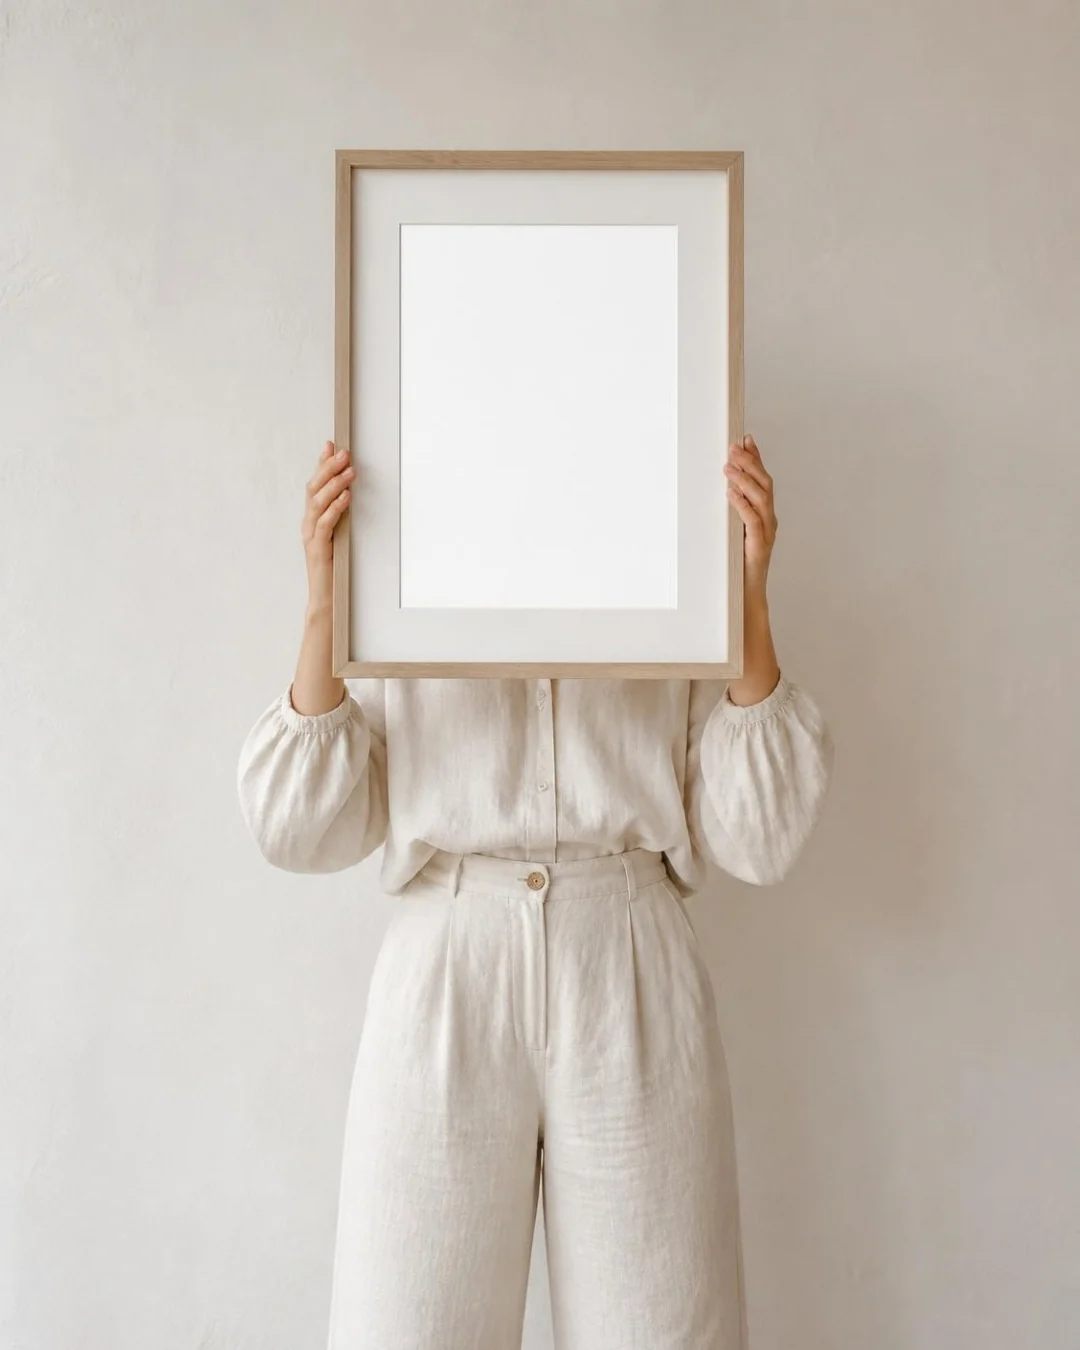
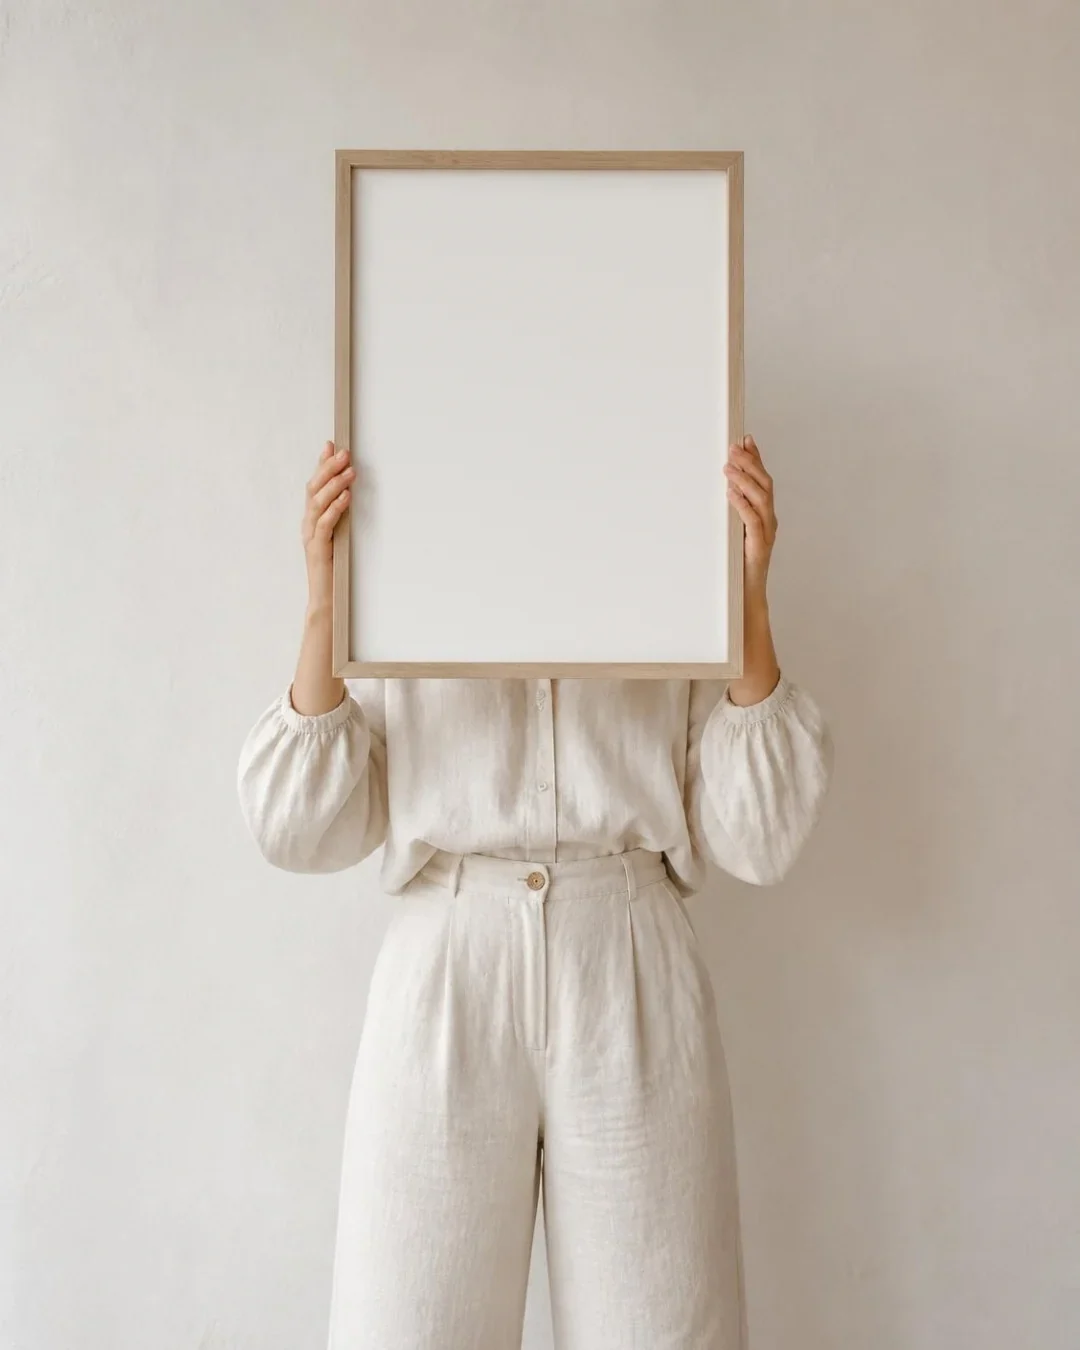
Paintings page: even mats, zoom, lighter images
- Each room photo's frame opening is measured from the photo; the old mat
  window is cleaned off and the painting sits centred with an even margin
  and a fine bevel, so no more wide white band above the art
- Three sizes per painting: small for the wall, medium for the viewer and
  rooms, the scan for zoom; rooms load on hover only; the next painting is
  fetched while one is open (first view about 1 MB instead of 4)
- Viewer: fixed stage, whole room shown, zoom by click or button with the
  full scan, square stage on phones
- Two columns on phones; Blue Poppies (a watermarked copy of White Dove)
  and the watermarked Little Tree are off the page until clean scans come

Claude-Session: https://claude.ai/code/session_011WuUMkvb8t9MEEabS5wD9n

Changed region(s): [[0.3667, 0.1556, 0.6417, 0.4667]]

diff --git a/drafts/collage/site/paintings.html b/drafts/collage/site/paintings.html
@@ -180,14 +180,19 @@ footer nav a{display:inline-block;padding:8px 2px}
 .pp .pr{font:700 var(--fs-body)/1 var(--f);white-space:nowrap;padding-top:4px}
 .pp:focus-visible{outline:3px solid var(--indigo);outline-offset:6px}
 @media(max-width:980px){.wall{columns:2}}
-@media(max-width:520px){.wall{columns:1}}
+@media(max-width:520px){.wall{column-gap:16px}.pp{margin-bottom:28px}.pp .cap h2{font-size:var(--fs-sm)}.pp .cap .where,.pp .cap .pr{font-size:var(--fs-caption)}}
 
 /* the painting up close: a paper sheet laid over the page */
 dialog.view{border:0;padding:0;background:none;width:min(1100px,calc(100% - 28px));max-height:calc(100svh - 28px);overflow:visible;color:var(--ink)}
 dialog.view::backdrop{background:rgba(var(--ink-rgb),.55)}
 .view .sheetv{display:grid;grid-template-columns:minmax(0,1.35fr) minmax(0,1fr);gap:clamp(24px,3vw,44px);align-items:center;padding:clamp(24px,3vw,40px);--c:var(--paper);max-height:calc(100svh - 28px);overflow:auto}
-.view .big{display:grid;place-items:center;background:var(--c-efe9dd);padding:clamp(12px,1.6vw,20px);min-height:0}
-.view .big img{max-width:100%;max-height:calc(100svh - 140px);width:auto;height:auto;filter:drop-shadow(0 6px 10px rgba(var(--ink-rgb),.2))}
+.view .big{display:grid;place-items:center;background:var(--c-efe9dd);padding:clamp(16px,2vw,28px);height:min(70svh,620px);container-type:size}
+.view .big>img{max-width:100%;max-height:100%;width:auto;height:auto;background:var(--paper-white);padding:3%;box-shadow:0 10px 22px -10px rgba(var(--ink-rgb),.45);cursor:zoom-in;transition:transform .35s cubic-bezier(.22,1,.36,1)}
+.view .big.zoom>img{transform:scale(2.6);cursor:zoom-out;box-shadow:none}
+.view .big[data-mode=wall]>img{visibility:hidden}
+.zbtn{position:absolute;inset-inline-end:12px;bottom:12px;z-index:3;width:44px;height:44px;border-radius:50%;border:0;background:var(--paper-white);color:var(--ink);display:grid;place-items:center;cursor:pointer;box-shadow:0 2px 8px rgba(var(--ink-rgb),.25)}
+.zbtn[aria-pressed=true]{background:var(--olive);color:var(--paper-white)}
+.zbtn[hidden]{display:none}
 .view h2{margin:0 0 8px;font:800 var(--fs-title)/1.05 var(--f);letter-spacing:-.02em}
 .ar-on .view h2{font:700 var(--fs-h3)/1.3 var(--fa);letter-spacing:0}
 .view .where{color:var(--soft);margin:0 0 24px;font-size:var(--fs-body)}
@@ -197,7 +202,7 @@ dialog.view::backdrop{background:rgba(var(--ink-rgb),.55)}
 .view .nav{display:flex;gap:8px;margin-top:24px}
 .view .x{position:absolute;top:-14px;inset-inline-end:-10px;z-index:3;width:48px;height:48px;border:0;cursor:pointer;--c:var(--ink);color:var(--paper);display:grid;place-items:center;filter:drop-shadow(0 4px 5px rgba(var(--rgb-20-18-14),.3))}
 .ar-on .view .nav svg{transform:scaleX(-1)}
-@media(max-width:820px){.view .sheetv{grid-template-columns:minmax(0,1fr)}.view .big img{max-height:52svh}}
+@media(max-width:820px){.view .sheetv{grid-template-columns:minmax(0,1fr)}.view .big{height:auto;aspect-ratio:1;max-height:56svh}}
 
 
 /* hover a painting: it is shown in a room, or held up by someone */
@@ -206,13 +211,16 @@ dialog.view::backdrop{background:rgba(var(--ink-rgb),.55)}
 .mk .scene{position:absolute;left:50%;top:50%;translate:-50% -50%;width:max(100cqw,calc(100cqh * var(--ar)));aspect-ratio:var(--ar)}
 .mk .scene img{position:absolute;max-width:none;max-height:none;filter:none;box-shadow:none;padding:0}
 .mk .room{inset:0;width:100%;height:100%}
-.mk .scene .art{object-fit:fill;mix-blend-mode:multiply;box-shadow:inset 0 0 0 1px rgba(var(--ink-rgb),.12),0 0 0 .6px rgba(var(--ink-rgb),.22)}
+.mk .scene .art{object-fit:fill;mix-blend-mode:multiply;box-shadow:0 0 0 1px rgba(var(--ink-rgb),.16),0 0 0 3px rgba(var(--rgb-255-255-255),.55),0 0 0 4px rgba(var(--ink-rgb),.08),0 1px 3px 3px rgba(var(--ink-rgb),.10)}
 @media(hover:hover){.pp:hover .mk{opacity:1}}
 .view .vtabs{display:flex;gap:16px;margin:0 0 16px}
 .view .vtabs button{border:0;background:none;padding:8px 0;font:700 var(--fs-sm)/1 var(--f);color:var(--soft);cursor:pointer;border-bottom:2px solid transparent}
 .ar-on .view .vtabs button{font-family:var(--fa)}
 .view .vtabs button[aria-pressed=true]{color:var(--ink);border-bottom-color:currentColor}
 .view .big{position:relative;overflow:hidden}
+.view .big .mk{transition:opacity .3s ease}
+.view .big[data-mode=wall] .mk{opacity:1;pointer-events:auto}
+.view .big .mk .scene{width:min(100cqw,calc(100cqh * var(--ar)))}
 .view .big .mk .scene img{max-width:none;max-height:none;filter:none}
 .view .big .mk .scene .room{width:100%;height:100%}
 .tbtn{display:inline-flex;align-items:center;gap:8px;min-height:44px;padding:0 16px;border:0;cursor:pointer;--c:var(--cream);color:var(--ink);font:700 var(--fs-sm)/1 var(--f);filter:drop-shadow(0 4px 4px rgba(var(--rgb-20-18-14),.18))}
@@ -267,7 +275,7 @@ a:focus-visible,button:focus-visible,input:focus-visible,textarea:focus-visible,
   <div class="wrap">
     <div>
       <h1 id="ph-h" data-ar="اللوحات">The paintings</h1>
-      <p class="lead" data-ar="عشرون لوحة مائية رسمتها فرح الحلو في غزة.">Twenty watercolours Farah Al-Helou painted in Gaza.</p>
+      <p class="lead" data-ar="لوحات مائية رسمتها فرح الحلو في غزة.">Watercolours Farah Al-Helou painted in Gaza.</p>
     </div>
     <p class="note paper" data-tear="4"><span class="fill"></span><b data-price="painting">€12</b><span data-ar="لكل لوحة. ملف عالي الدقة بصيغتي PDF وPNG، تحمّلونه فورًا وتطبعونه بأي حجم.">for each painting. A high-res PDF and PNG you download at once and print at any size.</span></p>
   </div>
@@ -278,7 +286,7 @@ a:focus-visible,button:focus-visible,input:focus-visible,textarea:focus-visible,
 <dialog class="view" id="view" aria-labelledby="v-h">
   <button class="x paper" data-tear="3" type="button" id="vx" aria-label="Close"><span class="fill"></span><svg viewBox="0 0 24 24" width="20" height="20" fill="none" stroke="currentColor" stroke-width="2.4" stroke-linecap="round"><path d="M6 6l12 12M18 6L6 18"/></svg></button>
   <div class="sheetv paper" data-tear="6"><span class="fill"></span>
-    <div class="big"><img id="vimg" src="assets/hero.webp" alt=""></div>
+    <div class="big" data-mode="art"><img id="vimg" src="assets/p/hero-s.webp" alt="" decoding="async"><button class="zbtn" type="button" id="vzoom" aria-pressed="false" aria-label="Zoom in"><svg viewBox="0 0 24 24" width="20" height="20" fill="none" stroke="currentColor" stroke-width="2" stroke-linecap="round"><circle cx="11" cy="11" r="7"/><path d="M20 20l-4-4M11 8v6M8 11h6"/></svg></button></div>
     <div>
       <h2 id="v-h"></h2><p class="where" id="vwhere"></p>
       <div class="vtabs" id="vtabs"><button type="button" data-v="art" aria-pressed="true" data-ar="اللوحة">The painting</button><button type="button" data-v="wall" aria-pressed="false" data-ar="في مكانها">In a room</button></div>
@@ -316,38 +324,53 @@ const P=[['hero','Gaza Coast','ساحل غزة','Al-Mawasi','المواصي',1],
  ['house','Home','البيت','Az-Zawayda','الزوايدة',0],['alley','The Alley','الزقاق','Old City','البلدة القديمة',0],['cal-03','White Dove','الحمامة البيضاء','Beit Lahia','بيت لاهيا',0],
  ['seafish','Sea Fish','سمك البحر','Al-Shati','الشاطئ',0],['cal-08','Girl with Cart','فتاة والعربة','Gaza','غزة',0],['hill','Hill & Boat','التلة والقارب','Khan Younis','خان يونس',0],
  ['cal-10','Elephant on a Bike','فيل على دراجة','Gaza','غزة',1],['cal-01','The Waves','الموج','Gaza beach','بحر غزة',0],['deirbalah','Deir al-Balah','دير البلح','Deir al-Balah','دير البلح',0],
- ['ppoppies','Blue Poppies','شقائق زرقاء','Gaza','غزة',0],['ptree','Little Tree','شجرة صغيرة','Gaza','غزة',0],['cal-04','Big Flower','الزهرة الكبيرة','Gaza','غزة',0],
+ ['cal-04','Big Flower','الزهرة الكبيرة','Gaza','غزة',0],
  ['cal-11','Moon Sleeper','نائمة على القمر','Gaza','غزة',0],['cal-02','Sea & Clouds','بحر وغيوم','Gaza','غزة',0]];
 const ASP={"hero": 1.454, "sparklers": 0.723, "cal-06": 1.328, "cal-07": 1.294, "guitar": 0.795, "cal-05": 0.836, "house": 1.342, "alley": 0.84, "cal-03": 1.396, "seafish": 0.674, "cal-08": 1.296, "hill": 1.011, "cal-10": 0.719, "cal-01": 1.46, "deirbalah": 0.815, "ppoppies": 1.396, "ptree": 0.66, "cal-04": 1.32, "cal-11": 0.812, "cal-02": 0.923};
-const MK={"mk-bench": {"w": 1024, "h": 768, "x": 0.251, "y": 0.263, "ww": 0.3633, "wh": 0.3268, "o": "l"}, "mk-bed": {"w": 1024, "h": 768, "x": 0.3389, "y": 0.1667, "ww": 0.3193, "wh": 0.2487, "o": "l"}, "mk-desk": {"w": 1024, "h": 1280, "x": 0.3486, "y": 0.2531, "ww": 0.3027, "wh": 0.3688, "o": "p"}, "mk-girl": {"w": 1024, "h": 1280, "x": 0.3574, "y": 0.3633, "ww": 0.2979, "wh": 0.3281, "o": "p"}, "wall-l": {"w": 1600, "h": 1200, "x": 0.2925, "y": 0.2292, "ww": 0.4231, "wh": 0.3567, "o": "l"}, "wall-p": {"w": 680, "h": 848, "x": 0.3456, "y": 0.1887, "ww": 0.3132, "wh": 0.3597, "o": "p"}, "held-4x5": {"w": 1080, "h": 1350, "x": 0.3528, "y": 0.123, "ww": 0.3009, "wh": 0.3126, "o": "p"}, "held-3x4": {"w": 1080, "h": 1350, "x": 0.3722, "y": 0.1674, "ww": 0.2546, "wh": 0.283, "o": "p"}, "held-5x4": {"w": 1080, "h": 1350, "x": 0.2509, "y": 0.2719, "ww": 0.5028, "wh": 0.3141, "o": "l"}, "held-1x1": {"w": 1080, "h": 1350, "x": 0.3296, "y": 0.1837, "ww": 0.3167, "wh": 0.2474, "o": "s"}};
+const MK={"mk-bench":{"w":1024,"h":768,"x":0.2139,"y":0.2194,"ww":0.4404,"wh":0.4154,"o":"l"},"mk-bed":{"w":1024,"h":768,"x":0.3091,"y":0.1374,"ww":0.3809,"wh":0.3086,"o":"l"},"mk-desk":{"w":1024,"h":1280,"x":0.2988,"y":0.207,"ww":0.4131,"wh":0.4641,"o":"p"},"mk-girl":{"w":1024,"h":1280,"x":0.3003,"y":0.3195,"ww":0.4141,"wh":0.418,"o":"p"},"wall-l":{"w":1600,"h":1200,"x":0.2553,"y":0.1775,"ww":0.5031,"wh":0.4608,"o":"l"},"wall-p":{"w":680,"h":848,"x":0.2993,"y":0.1492,"ww":0.4118,"wh":0.4399,"o":"p"},"held-4x5":{"w":1080,"h":1350,"x":0.3079,"y":0.0845,"ww":0.3861,"wh":0.3896,"o":"p"},"held-3x4":{"w":1080,"h":1350,"x":0.3365,"y":0.1304,"ww":0.337,"wh":0.3593,"o":"p"},"held-5x4":{"w":1080,"h":1350,"x":0.1829,"y":0.2156,"ww":0.6398,"wh":0.4244,"o":"l"},"held-1x1":{"w":1080,"h":1350,"x":0.2676,"y":0.1311,"ww":0.438,"wh":0.3519,"o":"s"}};
 /* every painting gets its own scene: hung on a wall, leaning on a bench or a desk, above a bed, or held up by someone.
    The scene is picked by the frame's shape, and the painting is laid whole inside the frame's white mat (never stretched or cropped). */
 const FR=Object.entries(MK).map(([k,m])=>[k,m.ww*m.w/(m.wh*m.h)]);
 function sceneFor(key,i){const a=ASP[key]||1.3,d=FR.map(([k,r])=>[k,Math.abs(Math.log(r/a))]).sort((x,y)=>x[1]-y[1]),best=d[0][1],ok=d.filter(x=>x[1]<=best+.12);return ok[i%ok.length][0]}
-function artBox(key,m){const a=ASP[key]||1.3,rw=m.ww*m.w,rh=m.wh*m.h,s=.9;let w,h;if(a>rw/rh){w=rw*s;h=w/a}else{h=rh*s;w=h*a}
-  return {l:(m.x+(m.ww-w/m.w)/2)*100,t:(m.y+(m.wh-h/m.h)/2)*100,w:w/m.w*100,h:h/m.h*100}}
-function mockHTML(key,i){const k=sceneFor(key,i),m=MK[k],b=artBox(key,m);
-  return `<div class="scene" style="--ar:${m.w/m.h}"><img class="room" src="assets/${k}.webp" alt=""><img class="art" src="assets/${key}.webp" alt="" style="left:${b.l}%;top:${b.t}%;width:${b.w}%;height:${b.h}%"></div>`}
+/* the painting in the middle of the mat, with the same margin all round (a little more at the bottom, as framers cut it) */
+function artBox(key,m){const a=ASP[key]||1.3,mw=m.ww*m.w,mh=m.wh*m.h,g=.13*Math.min(mw,mh),bw=mw-2*g,bh=mh-2*g;let w,h;if(a>bw/bh){w=bw;h=w/a}else{h=bh;w=h*a}
+  const top=(mh-h)/2-.012*mh;return {l:(m.x+(mw-w)/2/m.w)*100,t:(m.y+top/m.h)*100,w:w/m.w*100,h:h/m.h*100}}
+/* three sizes of every painting: a small one for the wall, a medium one for the viewer and the rooms, the scan itself for zoom */
+const SM=k=>`assets/p/${k}-s.webp`,MD=k=>`assets/p/${k}.webp`,LG=k=>`assets/${k}.webp`;
+function mockHTML(key,i,small){const k=sceneFor(key,i),m=MK[k],b=artBox(key,m);
+  return `<div class="scene" style="--ar:${m.w/m.h}"><img class="room" src="assets/${k}.webp" alt="" decoding="async"><img class="art" src="${small?SM(key):MD(key)}" alt="" decoding="async" style="left:${b.l}%;top:${b.t}%;width:${b.w}%;height:${b.h}%"></div>`}
 const wall=document.getElementById('wall'),filt=document.getElementById('filt'),view=document.getElementById('view');let mode='all',shown=[],vi=0;const S=window.MGShop;
 const FL=[['all','All','الكل',()=>true],['new','New','الجديدة',p=>p[5]===1]];
 function render(){buildLine();filt.innerHTML=FL.map(f=>`<li><button type="button" data-f="${f[0]}" aria-pressed="${mode===f[0]}">${AR?f[2]:f[1]}<sup>${P.filter(f[3]).length}</sup></button></li>`).join('');
   shown=P.filter(FL.find(f=>f[0]===mode)[3]);
-  wall.innerHTML=shown.map((p,i)=>`<a class="pp" href="#${p[0]}" data-i="${i}" aria-label="${AR?p[2]:p[1]}">${p[5]?`<span class="new paper" data-tear="2"><span class="fill"></span>${AR?'جديدة':'New'}</span>`:''}<div class="bed paper" data-tear="6"><span class="fill"></span><div class="pc" data-tear="4"><img src="assets/${p[0]}.webp" alt="${p[1]}, watercolour by Farah Al-Helou" loading="lazy"></div><div class="mk" aria-hidden="true">${mockHTML(p[0],P.indexOf(p))}</div></div>
+  wall.innerHTML=shown.map((p,i)=>`<a class="pp" href="#${p[0]}" data-i="${i}" aria-label="${AR?p[2]:p[1]}">${p[5]?`<span class="new paper" data-tear="2"><span class="fill"></span>${AR?'جديدة':'New'}</span>`:''}<div class="bed paper" data-tear="6"><span class="fill"></span><div class="pc" data-tear="4"><img src="${SM(p[0])}" alt="${p[1]}, watercolour by Farah Al-Helou" loading="lazy" decoding="async" width="560" height="${Math.round(560/(ASP[p[0]]||1.3))}"></div><div class="mk" aria-hidden="true"></div></div>
    <div class="cap"><div><h2>${AR?p[2]:p[1]}</h2><span class="where">${AR?p[4]:p[3]}</span></div><span class="pr">${S.fmt(S.price('painting',p[0]))}</span></div></a>`).join('');
   if(typeof draw==='function'){torn=[...document.querySelectorAll('[data-tear],[data-tear-top]')];requestAnimationFrame(draw)}
   if(window.gsap&&!matchMedia('(prefers-reduced-motion: reduce)').matches)gsap.from(wall.querySelectorAll('.pp'),{y:24,opacity:0,duration:.6,ease:'power2.out',stagger:.05})}
 function buildLine(){}
 filt.addEventListener('click',e=>{const b=e.target.closest('button');if(!b)return;mode=b.dataset.f;render()});
+/* the room behind a painting is only fetched when someone hovers it */
+wall.addEventListener('pointerover',e=>{const a=e.target.closest('.pp');if(!a)return;const mk=a.querySelector('.mk');if(mk&&!mk.firstChild){const p=shown[+a.dataset.i];mk.innerHTML=mockHTML(p[0],P.indexOf(p),true)}});
 wall.addEventListener('click',e=>{const a=e.target.closest('.pp');if(!a)return;e.preventDefault();open_(+a.dataset.i)});
 let vmode='art';
 document.getElementById('vtabs').addEventListener('click',e=>{const b=e.target.closest('button');if(!b)return;vmode=b.dataset.v;open_(vi)});
-function open_(i){vi=(i+shown.length)%shown.length;const p=shown[vi];const im=document.getElementById('vimg');im.src=`assets/${p[0]}.webp`;im.alt=`${p[1]}, watercolour by Farah Al-Helou`;
+function open_(i){vi=(i+shown.length)%shown.length;const p=shown[vi];unzoom();const im=document.getElementById('vimg');im.src=MD(p[0]);im.dataset.k=p[0];im.alt=`${p[1]}, watercolour by Farah Al-Helou`;
   document.getElementById('v-h').textContent=AR?p[2]:p[1];document.getElementById('vwhere').textContent=(AR?p[4]:p[3])+(AR?'، ':', ')+(AR?'ألوان مائية على ورق':'watercolour on paper');
   const b=document.getElementById('vadd'),inb=S.BAG.has('painting',p[0]),pr=S.fmt(S.price('painting',p[0]));b.textContent=inb?(AR?'في السلة':'In your bag'):(AR?`أضيفوها إلى السلة (${pr})`:`Add to bag (${pr})`);b.setAttribute('aria-pressed',inb);
   document.querySelectorAll('#vtabs button').forEach(b=>b.setAttribute('aria-pressed',b.dataset.v===vmode));
-  const big=document.querySelector('.view .big');let vm=big.querySelector('.mk');if(!vm){vm=document.createElement('div');vm.className='mk';big.append(vm)}
-  vm.innerHTML=mockHTML(p[0],P.indexOf(p));vm.style.opacity=vmode==='wall'?1:0;
+  const big=document.querySelector('.view .big');big.dataset.mode=vmode;let vm=big.querySelector('.mk');if(!vm){vm=document.createElement('div');vm.className='mk';big.append(vm)}
+  vm.innerHTML=mockHTML(p[0],P.indexOf(p));document.getElementById('vzoom').hidden=vmode!=='art';
+  /* the next painting and its room are fetched while this one is looked at */
+  const n=shown[(vi+1)%shown.length];[MD(n[0]),`assets/${sceneFor(n[0],P.indexOf(n))}.webp`].forEach(u=>{const x=new Image();x.src=u});
   if(!view.open){view.showModal();requestAnimationFrame(()=>typeof draw==='function'&&draw())}history.replaceState(null,'','#'+p[0])}
+/* zoom: click the painting (or the button) to see the brush strokes; move the pointer or drag to look around */
+const big=document.querySelector('.view .big'),vimg=document.getElementById('vimg');let zoomed=false;
+function unzoom(){zoomed=false;big.classList.remove('zoom');vimg.style.transformOrigin='';const z=document.getElementById('vzoom');if(z){z.setAttribute('aria-pressed','false')}}
+function zoomAt(x,y){const r=vimg.getBoundingClientRect();vimg.style.transformOrigin=`${Math.max(0,Math.min(100,(x-r.left)/r.width*100))}% ${Math.max(0,Math.min(100,(y-r.top)/r.height*100))}%`}
+function toggleZoom(e){if(big.dataset.mode!=='art')return;zoomed=!zoomed;big.classList.toggle('zoom',zoomed);document.getElementById('vzoom').setAttribute('aria-pressed',zoomed);
+  if(zoomed){const k=vimg.dataset.k;if(!vimg.src.endsWith(LG(k))){const hi=new Image();hi.onload=()=>{if(vimg.dataset.k===k)vimg.src=hi.src};hi.src=LG(k)}if(e&&e.clientX)zoomAt(e.clientX,e.clientY)}else vimg.style.transformOrigin=''}
+vimg.addEventListener('click',toggleZoom);document.getElementById('vzoom').addEventListener('click',()=>toggleZoom());
+big.addEventListener('pointermove',e=>{if(zoomed)zoomAt(e.clientX,e.clientY)});
 document.getElementById('vadd').onclick=()=>{const p=shown[vi];if(S.BAG.toggle('painting',p[0],p[1],p[2]))S.toast(AR?'أُضيفت اللوحة إلى السلة.':'The painting is in your bag.');open_(vi)};
 document.getElementById('vnext').onclick=()=>open_(vi+1);document.getElementById('vprev').onclick=()=>open_(vi-1);
 document.getElementById('vx').onclick=()=>view.close();view.addEventListener('close',()=>history.replaceState(null,'',location.pathname));

diff --git a/drafts/collage/parts/pg_main.html b/drafts/collage/parts/pg_main.html
@@ -4,7 +4,7 @@
   <div class="wrap">
     <div>
       <h1 id="ph-h" data-ar="اللوحات">The paintings</h1>
-      <p class="lead" data-ar="عشرون لوحة مائية رسمتها فرح الحلو في غزة.">Twenty watercolours Farah Al-Helou painted in Gaza.</p>
+      <p class="lead" data-ar="لوحات مائية رسمتها فرح الحلو في غزة.">Watercolours Farah Al-Helou painted in Gaza.</p>
     </div>
     <p class="note paper" data-tear="4"><span class="fill"></span><b data-price="painting">€12</b><span data-ar="لكل لوحة. ملف عالي الدقة بصيغتي PDF وPNG، تحمّلونه فورًا وتطبعونه بأي حجم.">for each painting. A high-res PDF and PNG you download at once and print at any size.</span></p>
   </div>
@@ -15,7 +15,7 @@
 <dialog class="view" id="view" aria-labelledby="v-h">
   <button class="x paper" data-tear="3" type="button" id="vx" aria-label="Close"><span class="fill"></span><svg viewBox="0 0 24 24" width="20" height="20" fill="none" stroke="currentColor" stroke-width="2.4" stroke-linecap="round"><path d="M6 6l12 12M18 6L6 18"/></svg></button>
   <div class="sheetv paper" data-tear="6"><span class="fill"></span>
-    <div class="big"><img id="vimg" src="assets/hero.webp" alt=""></div>
+    <div class="big" data-mode="art"><img id="vimg" src="assets/p/hero-s.webp" alt="" decoding="async"><button class="zbtn" type="button" id="vzoom" aria-pressed="false" aria-label="Zoom in"><svg viewBox="0 0 24 24" width="20" height="20" fill="none" stroke="currentColor" stroke-width="2" stroke-linecap="round"><circle cx="11" cy="11" r="7"/><path d="M20 20l-4-4M11 8v6M8 11h6"/></svg></button></div>
     <div>
       <h2 id="v-h"></h2><p class="where" id="vwhere"></p>
       <div class="vtabs" id="vtabs"><button type="button" data-v="art" aria-pressed="true" data-ar="اللوحة">The painting</button><button type="button" data-v="wall" aria-pressed="false" data-ar="في مكانها">In a room</button></div>
